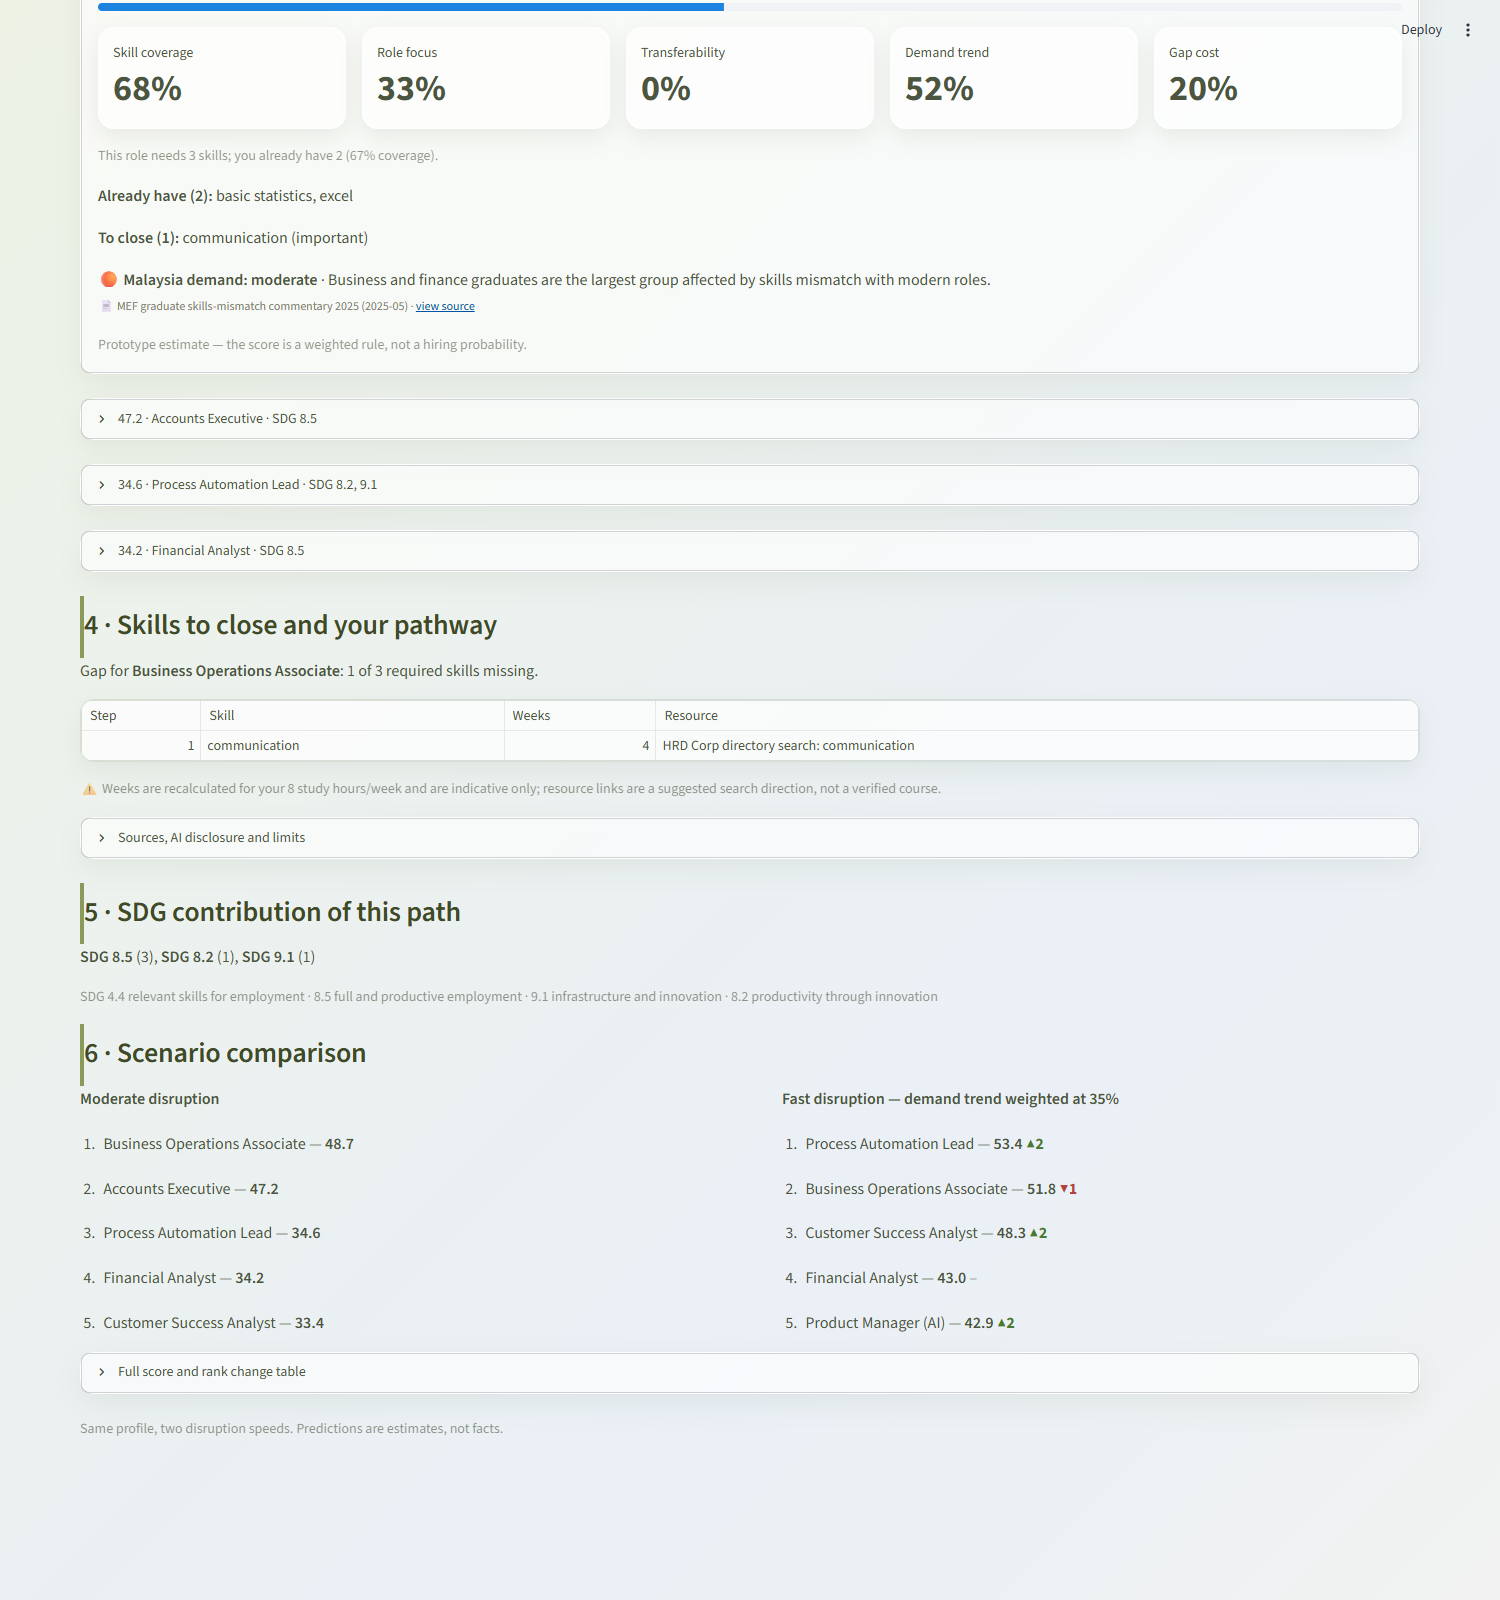
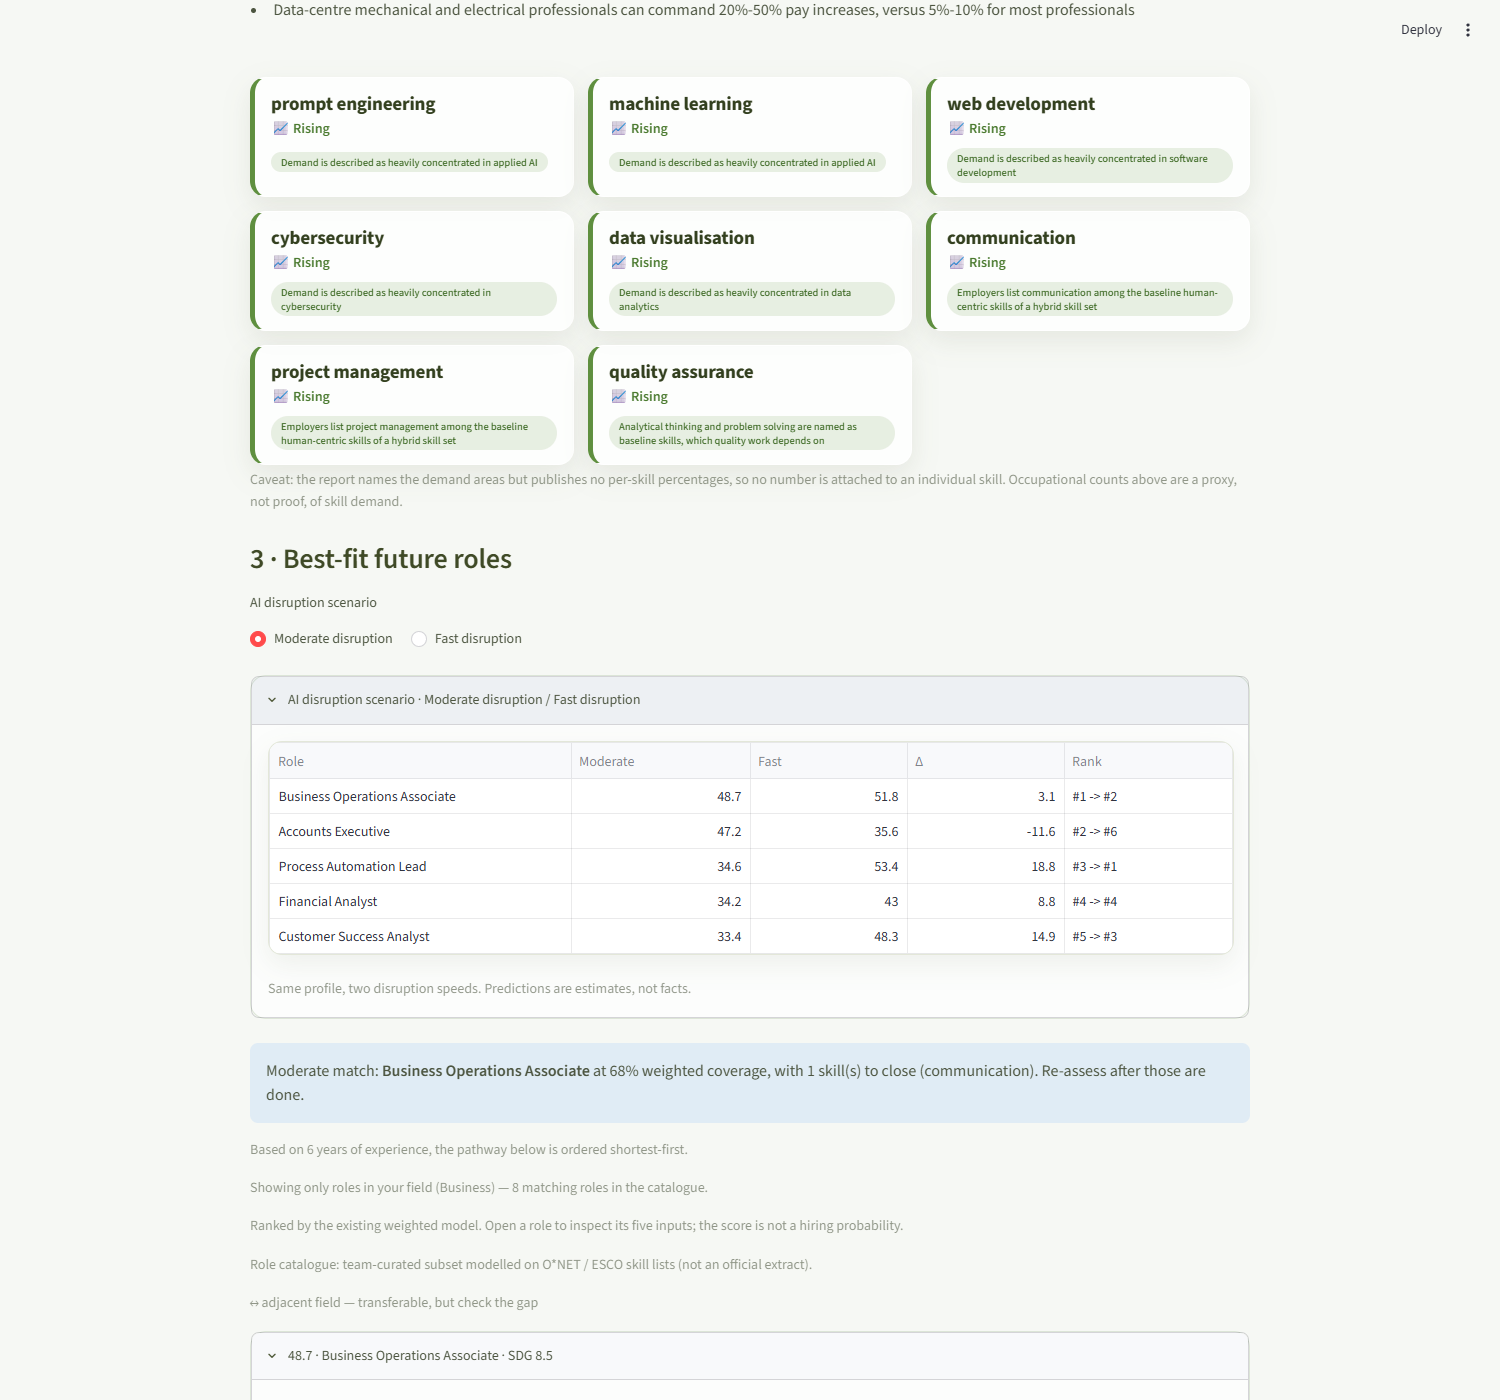
feat(results): restore a compact moderate-vs-fast scenario table for the uncertainty requirement

diff --git a/app.py b/app.py
@@ -1271,6 +1271,29 @@ def screen_js_results() -> None:
     )
     results = rank(skills, roles, scenario=scenario)
 
+    # ---- uncertainty: show both scenarios side by side, ranked side by side ----
+    _fast = rank(skills, roles, scenario="fast")
+    _mod = results if scenario == "moderate" else rank(skills, roles, scenario="moderate")
+    _pos_mod = {r["role"]: i + 1 for i, r in enumerate(_mod)}
+    _pos_fast = {r["role"]: i + 1 for i, r in enumerate(_fast)}
+    _score_fast = {r["role"]: r["score"] for r in _fast}
+    with st.expander(t["scenario"] + " · " + t["moderate"] + " / " + t["fast"], expanded=False):
+        st.dataframe(
+            [
+                {
+                    t["col_role"]: role_label(st.session_state.get("lang", "en"), r["role"]),
+                    t["col_mod"]: r["score"],
+                    t["col_fast"]: _score_fast.get(r["role"], 0),
+                    t["col_delta"]: round(_score_fast.get(r["role"], 0) - r["score"], 1),
+                    t["col_pos"]: f'#{_pos_mod[r["role"]]} -> #{_pos_fast.get(r["role"], 0)}',
+                }
+                for r in _mod[:5]
+            ],
+            use_container_width=True,
+            hide_index=True,
+        )
+        st.caption(t["scen_note"])
+
     # ---- neutral summary driven by weighted coverage, not by a gap count ----
     lang_now = st.session_state.get("lang", "en")
     top1 = results[0]
